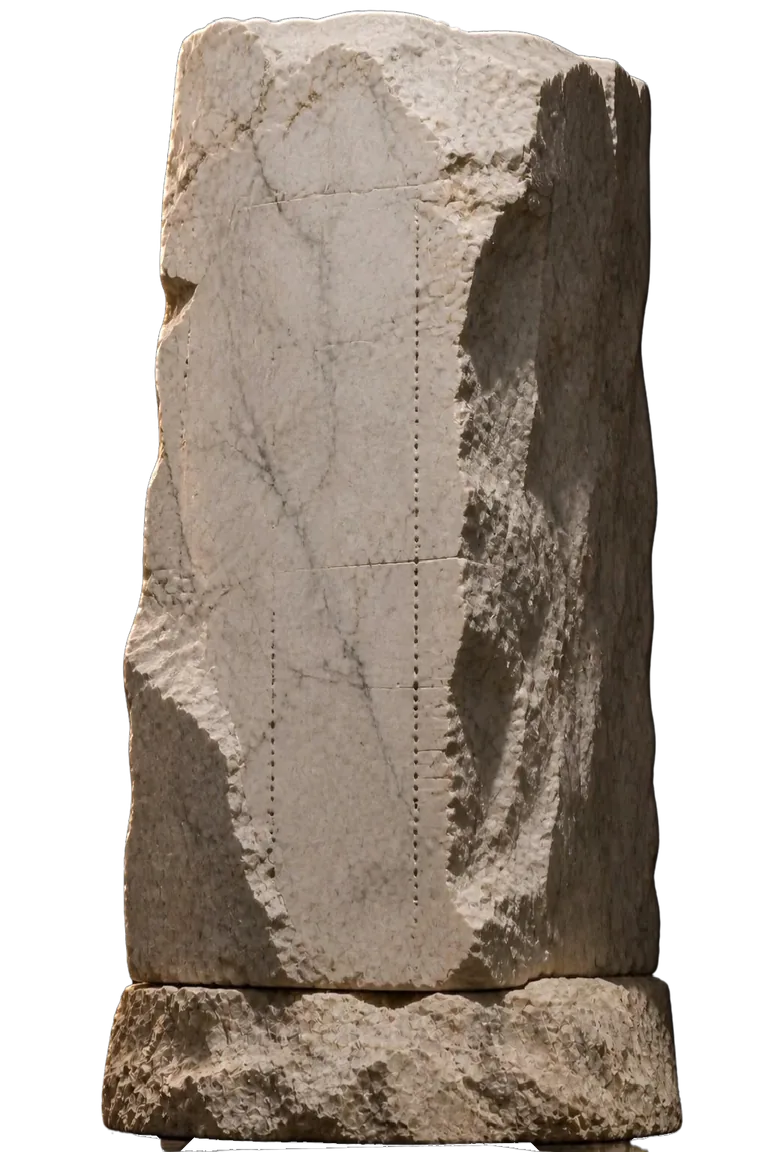
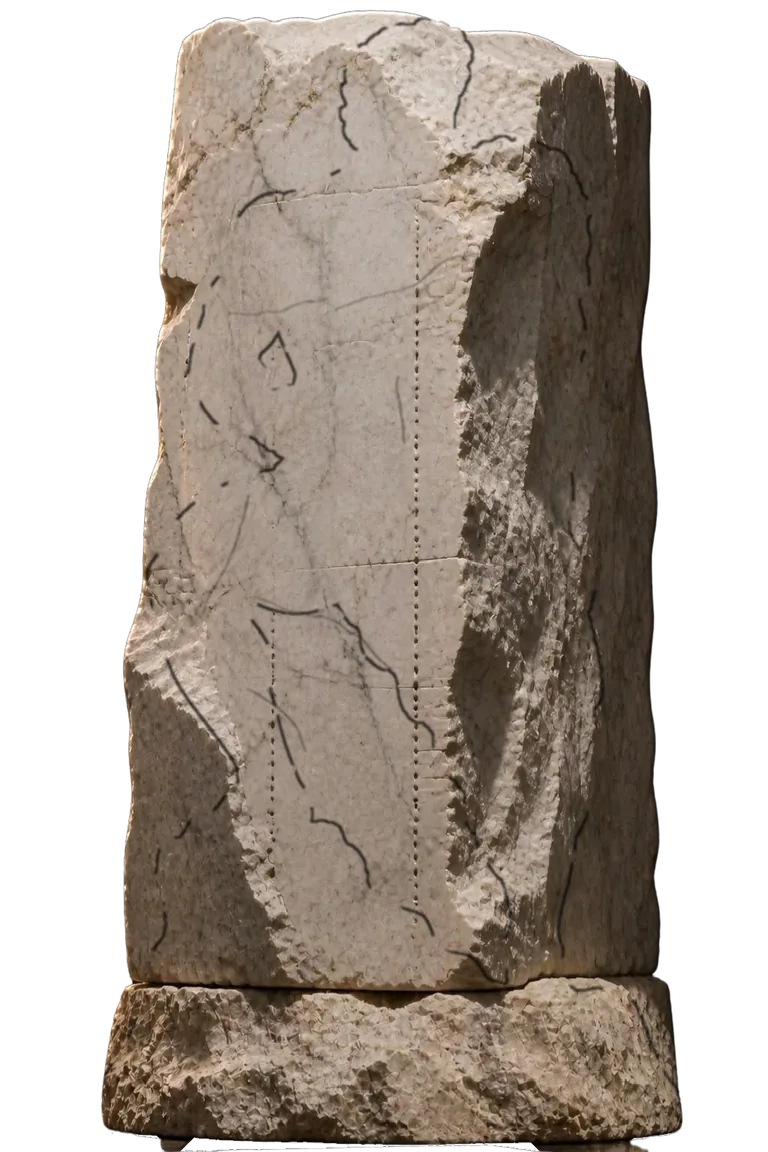
Formad-caset: mentorns simuleringar sagda rakt, inga dubbla statybilder
Mentorn: meningen om simuleringarna säger nu bara att det var
AI-agenter och inte riktiga användare. Formen: typografimeningen
omskriven, remsans etikett säger färdig staty, och form-01 och form-04
tas ur steg-02 och steg-11 så att de inte upprepar Kropparnas bilder.
Testet kräver att sidan inte nämner PED.

diff --git a/src/pages/CaseFormad.tsx b/src/pages/CaseFormad.tsx
@@ -136,12 +136,12 @@ const felen = [
 const formen = [
   {
     src: '/formad/form-01.webp',
-    alt: 'Ett ohugget marmorblock på en sockel, med prickade linjer inritade där statyn ska fram',
+    alt: 'Ett marmorblock på en sockel, med prickade linjer och de första linjerna inritade där statyn ska fram',
     caption: 'Blocket',
   },
   {
     src: '/formad/form-02.webp',
-    alt: 'Marmorblocket med de första huggen i överkanten och mejselspår över ytan',
+    alt: 'Marmorblocket med de första huggen i överkanten och sprickor och linjer över ytan',
     caption: 'Första huggen',
   },
   {
@@ -151,7 +151,7 @@ const formen = [
   },
   {
     src: '/formad/form-04.webp',
-    alt: 'Överkroppen är framhuggen med armarna över magen, benen är kvar i blocket',
+    alt: 'Överkroppen är framhuggen med armarna över magen och lejonhuden över axeln, resten av kroppen är kvar i blocket',
     caption: 'Formen syns',
   },
   {
@@ -519,9 +519,8 @@ export default function CaseFormad() {
                   Bedömningarna blev regler i prompten. Färre uppslag i taget. Inga
                   frågor som lämnas hängande. Tider i timmar och minuter som i resten
                   av appen. Mentorn tänker längre innan den svarar och säger mindre.
-                  Samtalen var simulerade, och det var poängen: mentorn gjorde sina
-                  misstag mot agenterna innan en riktig användare fick se dem. Sedan
-                  fick betatestarna ta över.
+                  Samtalen var simuleringar med AI-agenter, inte riktiga användare.
+                  Sedan fick betatestarna ta över.
                 </p>
               </div>
             </div>
@@ -596,7 +595,7 @@ export default function CaseFormad() {
           </div>
 
           <div className="mt-16 md:mt-20">
-            <JourneyStrip steps={formen} label="Statyn i åtta steg, från block till färdig" />
+            <JourneyStrip steps={formen} label="Statyn i åtta steg, från block till färdig staty" />
           </div>
 
           <div className="px-6 md:px-12 lg:px-20">
@@ -605,8 +604,8 @@ export default function CaseFormad() {
                 <p className="max-w-[60ch]">
                   Temat är inte dekor. Statyn i marmor är användarens egen vecka och
                   förändras med den. Typografin och färgerna är lånade ur samma
-                  värld: Cinzel för de grekiska rubrikerna, EB Garamond och Hanken
-                  Grotesk.
+                  värld. Rubrikerna med grekisk prägel är satta i Cinzel, resten i
+                  EB Garamond och Hanken Grotesk.
                 </p>
                 <p className="max-w-[60ch]">
                   Varje skärm är ritad för en tumme och den information som behövs
